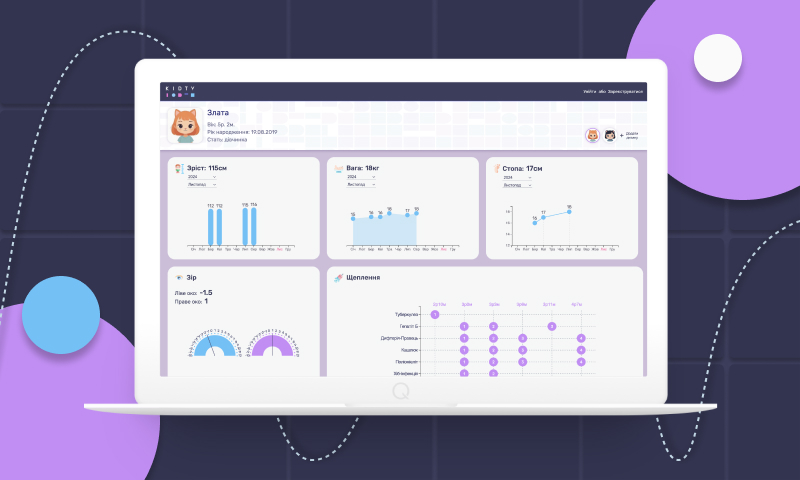
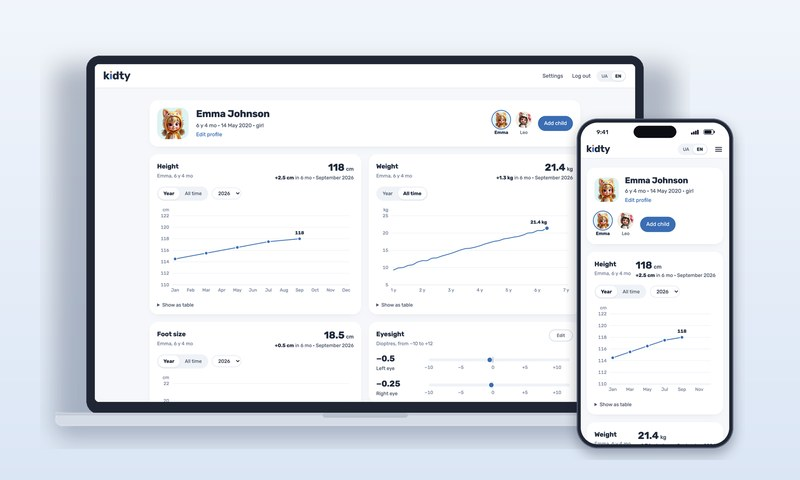
Update Kidty screenshots to the new design

diff --git a/src/data/projects.ts b/src/data/projects.ts
@@ -150,7 +150,7 @@ export const projects: Project[] = [
     urlLabel: "kidty.com.ua",
     cover: kidtyCoverImage,
     images: kidtyImages,
-    accent: "#6A5AE0",
+    accent: "#3A6DB3",
     overview:
       "Kidty is a HealthTech web app that helps parents and paediatricians track a child's development over time and see it in context — growth curves, percentiles and custom measurements — instead of reading raw numbers from a notebook.",
     challenge:
